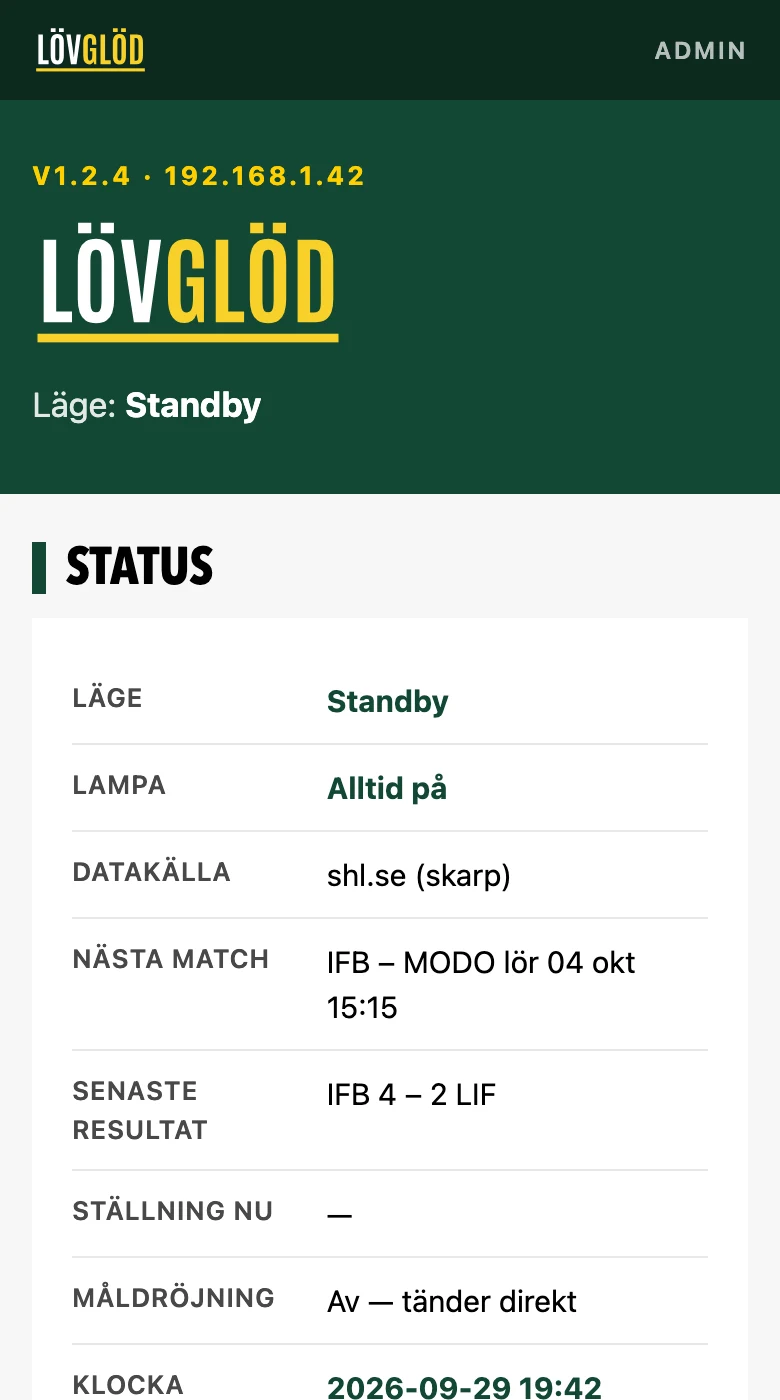
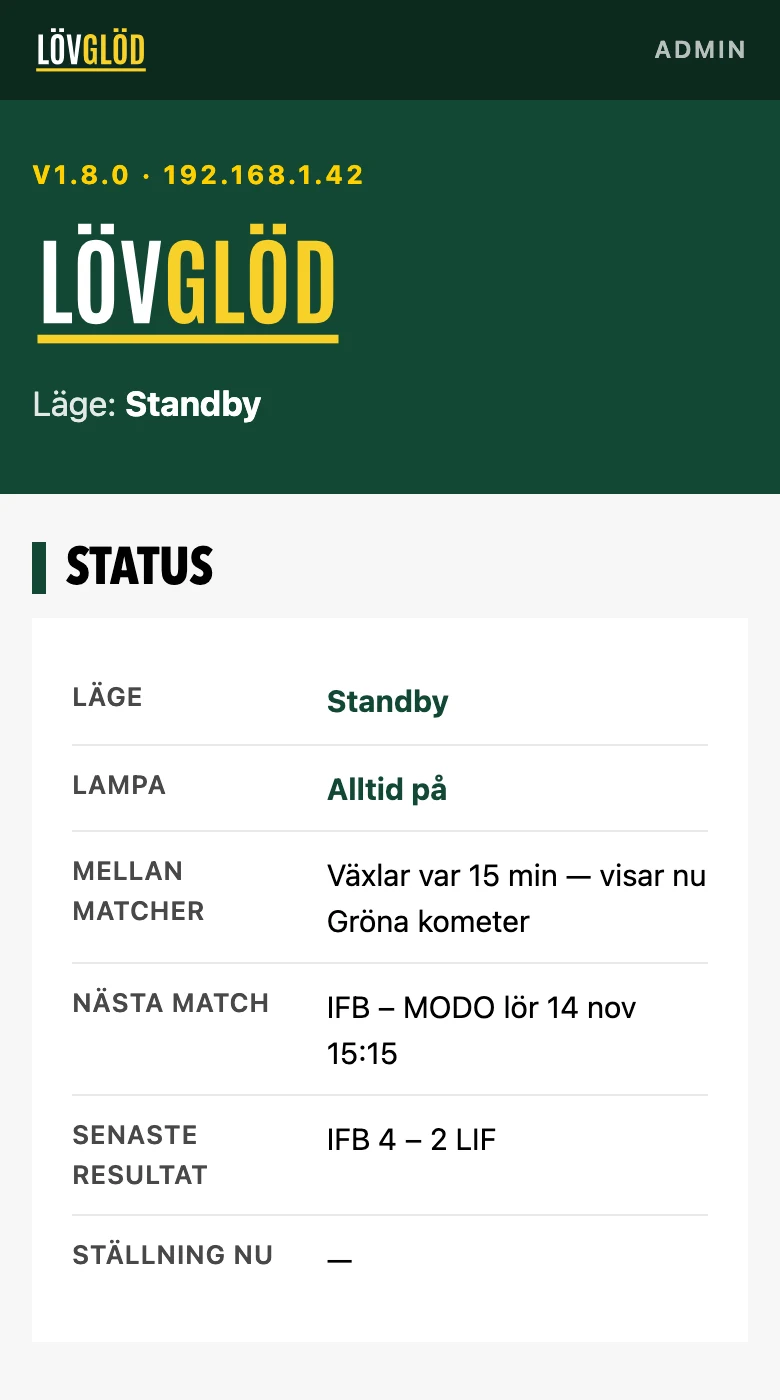
Beskriv ljuset mellan matcher på webbplatsen
Kom igång får en rad för den nya inställningen, märkt Beta med en not
om att den finns i 1.8.0-rc1. Testa ljuset och kortet för det gula
andetaget nämner den, och mobilbilden av statussidan är byggd om ur
portalens nuvarande CSS med raden Mellan matcher.

Kortet Vann senast på produktsidan sa vita gnistor; lampan ritar gröna
kometer sedan oktober. Filmens text lämnas, filmen är inspelad före.

diff --git a/site/anvand.html b/site/anvand.html
@@ -266,6 +266,8 @@ dl[style*="width: 1280px"], ul[style*="width: 1280px"], ol[style*="width: 1280px
         <dd style="margin: 0; padding: 18px 0; border-bottom: 1px solid rgba(255,255,255,0.18); line-height: 1.5; color: rgba(255,255,255,0.85);"><b>Alltid på</b> glöder dygnet runt, och är standard. <b>Bara match</b> är släckt mellan matcherna och tänds före nedsläpp. <b>Av</b> är helt släckt. Lampan följer matcherna i bakgrunden även när den är släckt, så den är i fas direkt när den tänds.</dd>
         <dt style="padding: 18px 0; border-bottom: 1px solid rgba(255,255,255,0.18); font-weight: 700;">Bara match: tänd före nedsläpp</dt>
         <dd style="margin: 0; padding: 18px 0; border-bottom: 1px solid rgba(255,255,255,0.18); line-height: 1.5; color: rgba(255,255,255,0.85);">15 eller 30 minuter. Visas bara när <i>Bara match</i> är valt. Listen släcks igen vid slutsignalen.</dd>
+        <dt style="padding: 18px 0; border-bottom: 1px solid rgba(255,255,255,0.18); font-weight: 700;">Ljus mellan matcher<span style="display: inline-block; margin-left: 8px; padding: 2px 7px; background: #f1d458; color: #0c2a1f; font-size: 11px; font-weight: 700; letter-spacing: 0.08em; text-transform: uppercase; vertical-align: 2px;">Beta</span></dt>
+        <dd style="margin: 0; padding: 18px 0; border-bottom: 1px solid rgba(255,255,255,0.18); line-height: 1.5; color: rgba(255,255,255,0.85);">Vad lampan visar mellan matcherna: <b>standby-glöden</b> (standard), <b>gröna kometer</b>, intågets <b>grönt och gult som byter</b> eller intågets <b>gröna linje</b>. Eller <b>Växla mellan flera</b>: de effekter du kryssar i, en i taget, från 5 minuter till 4 timmar var, med en mjuk övertoning emellan. Visas bara när <i>Alltid på</i> är valt. Matchen, målen och segerläget går alltid före. <i>Finns i betaversionen 1.8.0-rc1. Välj Uppdateringskanal: Beta under Avancerat för att få den.</i></dd>
         <dt style="padding: 18px 0; border-bottom: 1px solid rgba(255,255,255,0.18); font-weight: 700;">Ljusstyrka</dt>
         <dd style="margin: 0; padding: 18px 0; border-bottom: 1px solid rgba(255,255,255,0.18); line-height: 1.5; color: rgba(255,255,255,0.85);">Ett reglage från 0 till 255, standard 160. Gäller allt lampan visar, även målfyrverkeriet.</dd>
         <dt style="padding: 18px 0; border-bottom: 1px solid rgba(255,255,255,0.18); font-weight: 700;">Fördröjning på mål</dt>
@@ -283,13 +285,13 @@ dl[style*="width: 1280px"], ul[style*="width: 1280px"], ol[style*="width: 1280px
         <dt style="padding: 18px 0; border-bottom: 0 solid transparent; font-weight: 700;">Felsökningsläge</dt>
         <dd style="margin: 0; padding: 18px 0; border-bottom: 0 solid transparent; line-height: 1.5; color: rgba(255,255,255,0.85);">Låt stå på <b>Av</b>. Det är till för utveckling och låter en testserver styra lampan i stället för SHL.</dd>
       </dl>
-        <figure style="margin: 0; display: flex; flex-direction: column; align-items: center; gap: 14px;"><img src="assets/portal-status.webp" alt="Statussidan i mobilen: LövGlöd-logotypen, läget Standby och en tabell med nästa match, senaste resultat, måldröjning och klocka." width="300" height="538" loading="lazy" style="width: 300px; height: auto; border: 10px solid #0c2a1f; border-radius: 30px; box-shadow: 0 24px 48px rgba(0,0,0,0.22);"><figcaption style="font-size: 14px; line-height: 1.45; text-align: center; color: rgba(255,255,255,0.7);">Statussidan i mobilen. Överst syns läget och nästa match, längre ner inställningarna.</figcaption></figure>
+        <figure style="margin: 0; display: flex; flex-direction: column; align-items: center; gap: 14px;"><img src="assets/portal-status.webp" alt="Statussidan i mobilen: LövGlöd-logotypen, läget Standby och en tabell med lampläget, ljuset mellan matcher, nästa match, senaste resultat och ställningen nu." width="300" height="538" loading="lazy" style="width: 300px; height: auto; border: 10px solid #0c2a1f; border-radius: 30px; box-shadow: 0 24px 48px rgba(0,0,0,0.22);"><figcaption style="font-size: 14px; line-height: 1.45; text-align: center; color: rgba(255,255,255,0.7);">Statussidan i mobilen. Överst syns läget och nästa match, längre ner inställningarna.</figcaption></figure>
       </div>
 
       <div style="display: flex; flex-direction: column; gap: 20px;">
         <h3 style="font-size: 14px; font-weight: 700; text-transform: uppercase; letter-spacing: 0.1em; color: #f1d458;">Knapparna under Åtgärder</h3>
         <ul style="list-style: none; margin: 0; padding: 0; display: grid; grid-template-columns: repeat(4, minmax(0, 1fr)); gap: 2px;">
-          <li style="background: #0c2a1f; padding: 20px; display: flex; flex-direction: column; gap: 8px;"><span style="font-size: 17px; font-weight: 700;">Testa ljuset</span><span style="font-size: 14px; line-height: 1.4; color: rgba(255,255,255,0.78);">Öppnar en sida med en knapp per läge: slutspurt, paus, övertid, segerdans, mål och suck. Målen innehåller blinkande ljus. <i>Normal drift</i> avslutar, annars efter tio minuter.</span></li>
+          <li style="background: #0c2a1f; padding: 20px; display: flex; flex-direction: column; gap: 8px;"><span style="font-size: 17px; font-weight: 700;">Testa ljuset</span><span style="font-size: 14px; line-height: 1.4; color: rgba(255,255,255,0.78);">Öppnar en sida med en knapp per läge: standby, gröna kometer, intåget, slutspurt, paus, övertid, segerdans, mål och suck. Så ser du hur ljuset mellan matcher blir innan du väljer. Målen innehåller blinkande ljus. <i>Normal drift</i> avslutar, annars efter tio minuter.</span></li>
           <li style="background: #0c2a1f; padding: 20px; display: flex; flex-direction: column; gap: 8px;"><span style="font-size: 17px; font-weight: 700;">Hämta matchdata nu</span><span style="font-size: 12px; font-weight: 700; text-transform: uppercase; letter-spacing: 0.1em; color: #f8d12b;">Under Avancerat</span><span style="font-size: 14px; line-height: 1.4; color: rgba(255,255,255,0.78);">Frågar SHL direkt i stället för att vänta på nästa hämtning.</span></li>
           <li style="background: #0c2a1f; padding: 20px; display: flex; flex-direction: column; gap: 8px;"><span style="font-size: 17px; font-weight: 700;">Sök efter uppdatering nu</span><span style="font-size: 12px; font-weight: 700; text-transform: uppercase; letter-spacing: 0.1em; color: #f8d12b;">Under Avancerat</span><span style="font-size: 14px; line-height: 1.4; color: rgba(255,255,255,0.78);">Kollar efter ny firmware direkt och installerar om det finns.</span></li>
           <li style="background: #0c2a1f; padding: 20px; display: flex; flex-direction: column; gap: 8px;"><span style="font-size: 17px; font-weight: 700;">Glöm WiFi</span><span style="font-size: 14px; line-height: 1.4; color: rgba(255,255,255,0.78);">Raderar det sparade nätet och startar setup-nätet igen. Använd när du byter router.</span></li>
@@ -315,7 +317,7 @@ dl[style*="width: 1280px"], ul[style*="width: 1280px"], ol[style*="width: 1280px
         <li style="background: #ffffff; padding: 24px; display: flex; flex-direction: column; gap: 10px;"><span style="width: 14px; height: 14px; border-radius: 50%; background: #ffe000; box-shadow: 0 0 12px #ffe000;"></span><span style="font-size: 18px; font-weight: 700;">Gul punkt jagar runt</span><span style="font-size: 15px; line-height: 1.4; color: #484848;">Ansluter till WiFi.</span></li>
         <li style="background: #ffffff; padding: 24px; display: flex; flex-direction: column; gap: 10px;"><span style="width: 14px; height: 14px; border-radius: 50%; background: #ffe000; box-shadow: 0 0 12px #ffe000;"></span><span style="font-size: 18px; font-weight: 700;">Gul stapel står still</span><span style="font-size: 15px; line-height: 1.4; color: #484848;">Testar nätet och hämtar första matchdatan. Den hoppar i stora steg, det är normalt.</span></li>
         <li style="background: #ffffff; padding: 24px; display: flex; flex-direction: column; gap: 10px;"><span style="width: 14px; height: 14px; border-radius: 50%; background: #ffe000; box-shadow: 0 0 12px #ffe000;"></span><span style="font-size: 18px; font-weight: 700;">Gul stapel fylls</span><span style="font-size: 15px; line-height: 1.4; color: #484848;">Uppdaterar sig. Dra inte ur strömmen, den startar om själv när den är klar.</span></li>
-        <li style="background: #ffffff; padding: 24px; display: flex; flex-direction: column; gap: 10px;"><span style="width: 14px; height: 14px; border-radius: 50%; background: #ffe000; box-shadow: 0 0 12px #ffe000;"></span><span style="font-size: 18px; font-weight: 700;">Långsamt gult andetag</span><span style="font-size: 15px; line-height: 1.4; color: #484848;">Allt fungerar. Här står lampan nästan all tid.</span></li>
+        <li style="background: #ffffff; padding: 24px; display: flex; flex-direction: column; gap: 10px;"><span style="width: 14px; height: 14px; border-radius: 50%; background: #ffe000; box-shadow: 0 0 12px #ffe000;"></span><span style="font-size: 18px; font-weight: 700;">Långsamt gult andetag</span><span style="font-size: 15px; line-height: 1.4; color: #484848;">Allt fungerar. Här står lampan nästan all tid, om du inte valt ett annat ljus mellan matcher. Det röda andetaget nedan går alltid före, så ett fel syns ändå.</span></li>
         <li style="background: #ffffff; padding: 24px; display: flex; flex-direction: column; gap: 10px;"><span style="width: 14px; height: 14px; border-radius: 50%; background: #7a2a22; box-shadow: 0 0 12px #7a2a22;"></span><span style="font-size: 18px; font-weight: 700;">Svagt rött andetag</span><span style="font-size: 15px; line-height: 1.4; color: #484848;">På WiFi, men SHL svarar inte. Löser sig oftast av sig själv när shl.se är tillbaka.</span></li>
       </ul>
     </div>

diff --git a/site/index.html b/site/index.html
@@ -245,9 +245,9 @@ dl[style*="width: 1280px"], ul[style*="width: 1280px"], ol[style*="width: 1280px
             </li>
           
             <li style="background: #0c2a1f; padding: 16px; display: flex; flex-direction: column; gap: 10px;">
-              <span style="width: 14px; height: 14px; border-radius: 50%; background: #ffffff; box-shadow: 0 0 12px #ffffff;"></span>
+              <span style="width: 14px; height: 14px; border-radius: 50%; background: #1c8f45; box-shadow: 0 0 12px #1c8f45;"></span>
               <span style="font-size: 17px; font-weight: 700;">Vann senast</span>
-              <span style="font-size: 14px; line-height: 1.35; color: rgba(255,255,255,0.78);">Vita gnistor ovanpå glöden, ända till nästa match.</span>
+              <span style="font-size: 14px; line-height: 1.35; color: rgba(255,255,255,0.78);">Gröna kometer över grön glöd, ända till nästa match.</span>
             </li>
           
             <li style="background: #0c2a1f; padding: 16px; display: flex; flex-direction: column; gap: 10px;">
@@ -362,7 +362,7 @@ dl[style*="width: 1280px"], ul[style*="width: 1280px"], ol[style*="width: 1280px
           <dt style="padding: 14px 0; border-bottom: 1px solid #cecece; font-weight: 600; color: #484848;">Ström</dt><dd style="margin: 0; padding: 14px 0; border-bottom: 1px solid #cecece;">USB-C i sockelns baksida, 5 V</dd>
           <dt style="padding: 14px 0; border-bottom: 1px solid #cecece; font-weight: 600; color: #484848;">Matchdata</dt><dd style="margin: 0; padding: 14px 0; border-bottom: 1px solid #cecece;">SHL:s publika API</dd>
           <dt style="padding: 14px 0; border-bottom: 1px solid #cecece; font-weight: 600; color: #484848;">Uppdateringar</dt><dd style="margin: 0; padding: 14px 0; border-bottom: 1px solid #cecece;">Automatiska och signerade, med rollback</dd>
-          <dt style="padding: 14px 0; border-bottom: 1px solid #cecece; font-weight: 600; color: #484848;">Inställningar</dt><dd style="margin: 0; padding: 14px 0; border-bottom: 1px solid #cecece;">Statussida i webbläsaren: ljusstyrka, tv-fördröjning och matchljus</dd>
+          <dt style="padding: 14px 0; border-bottom: 1px solid #cecece; font-weight: 600; color: #484848;">Inställningar</dt><dd style="margin: 0; padding: 14px 0; border-bottom: 1px solid #cecece;">Statussida i webbläsaren: ljusstyrka, tv-fördröjning, matchljus och ljus mellan matcher</dd>
         </dl>
       </div>
       <img src="assets/back.webp" alt="LövGlöd bakifrån, tänd: bakluckans gula kontur och USB-C-uttaget i sockeln" style="width: 380px; height: auto;">
